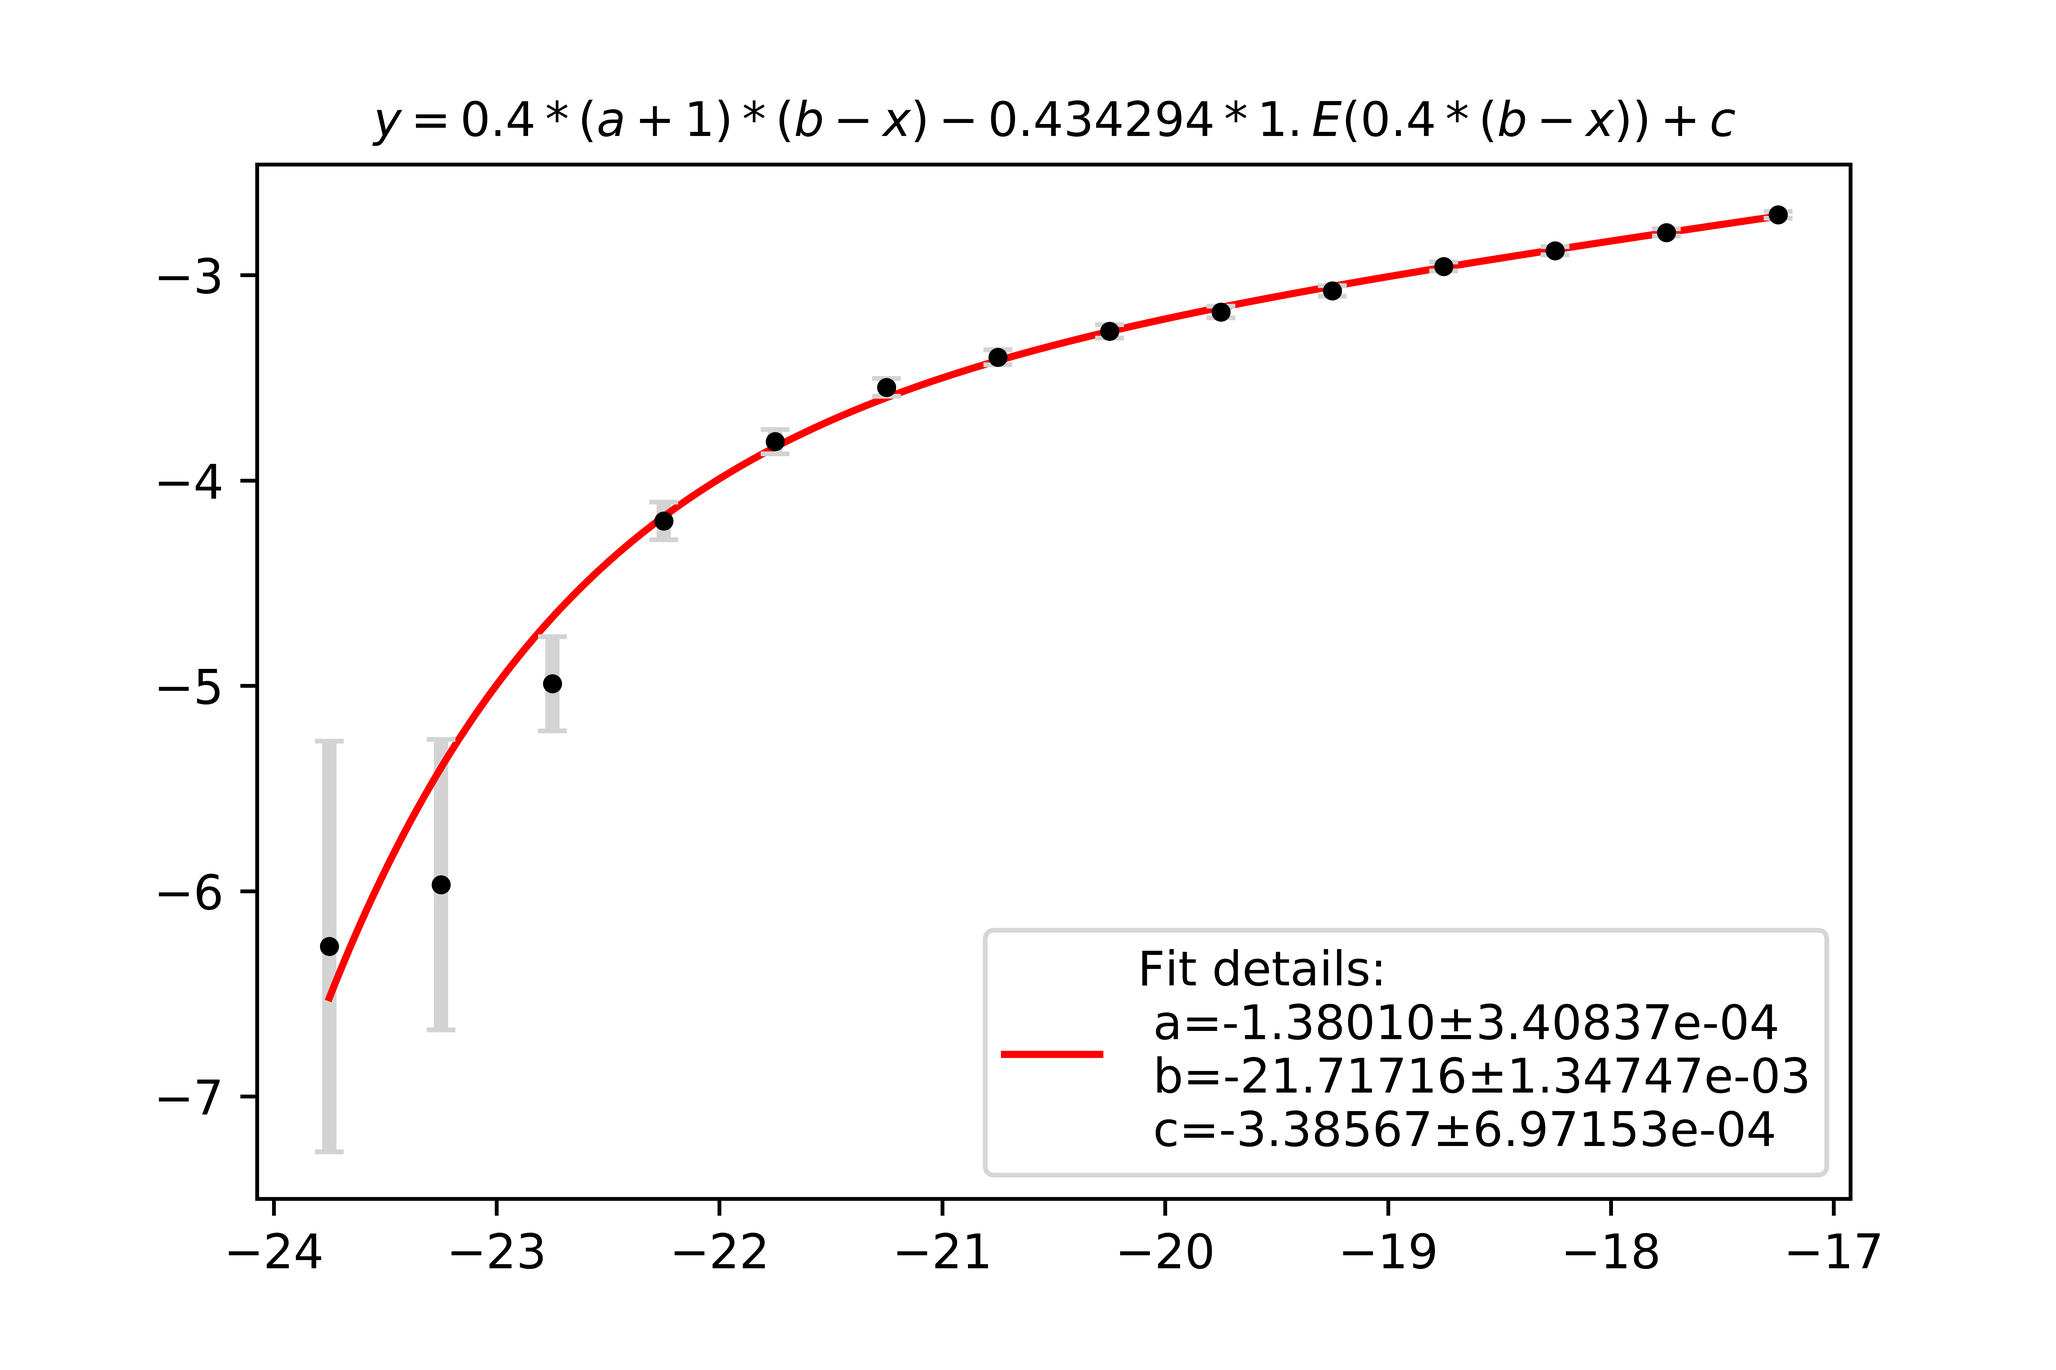
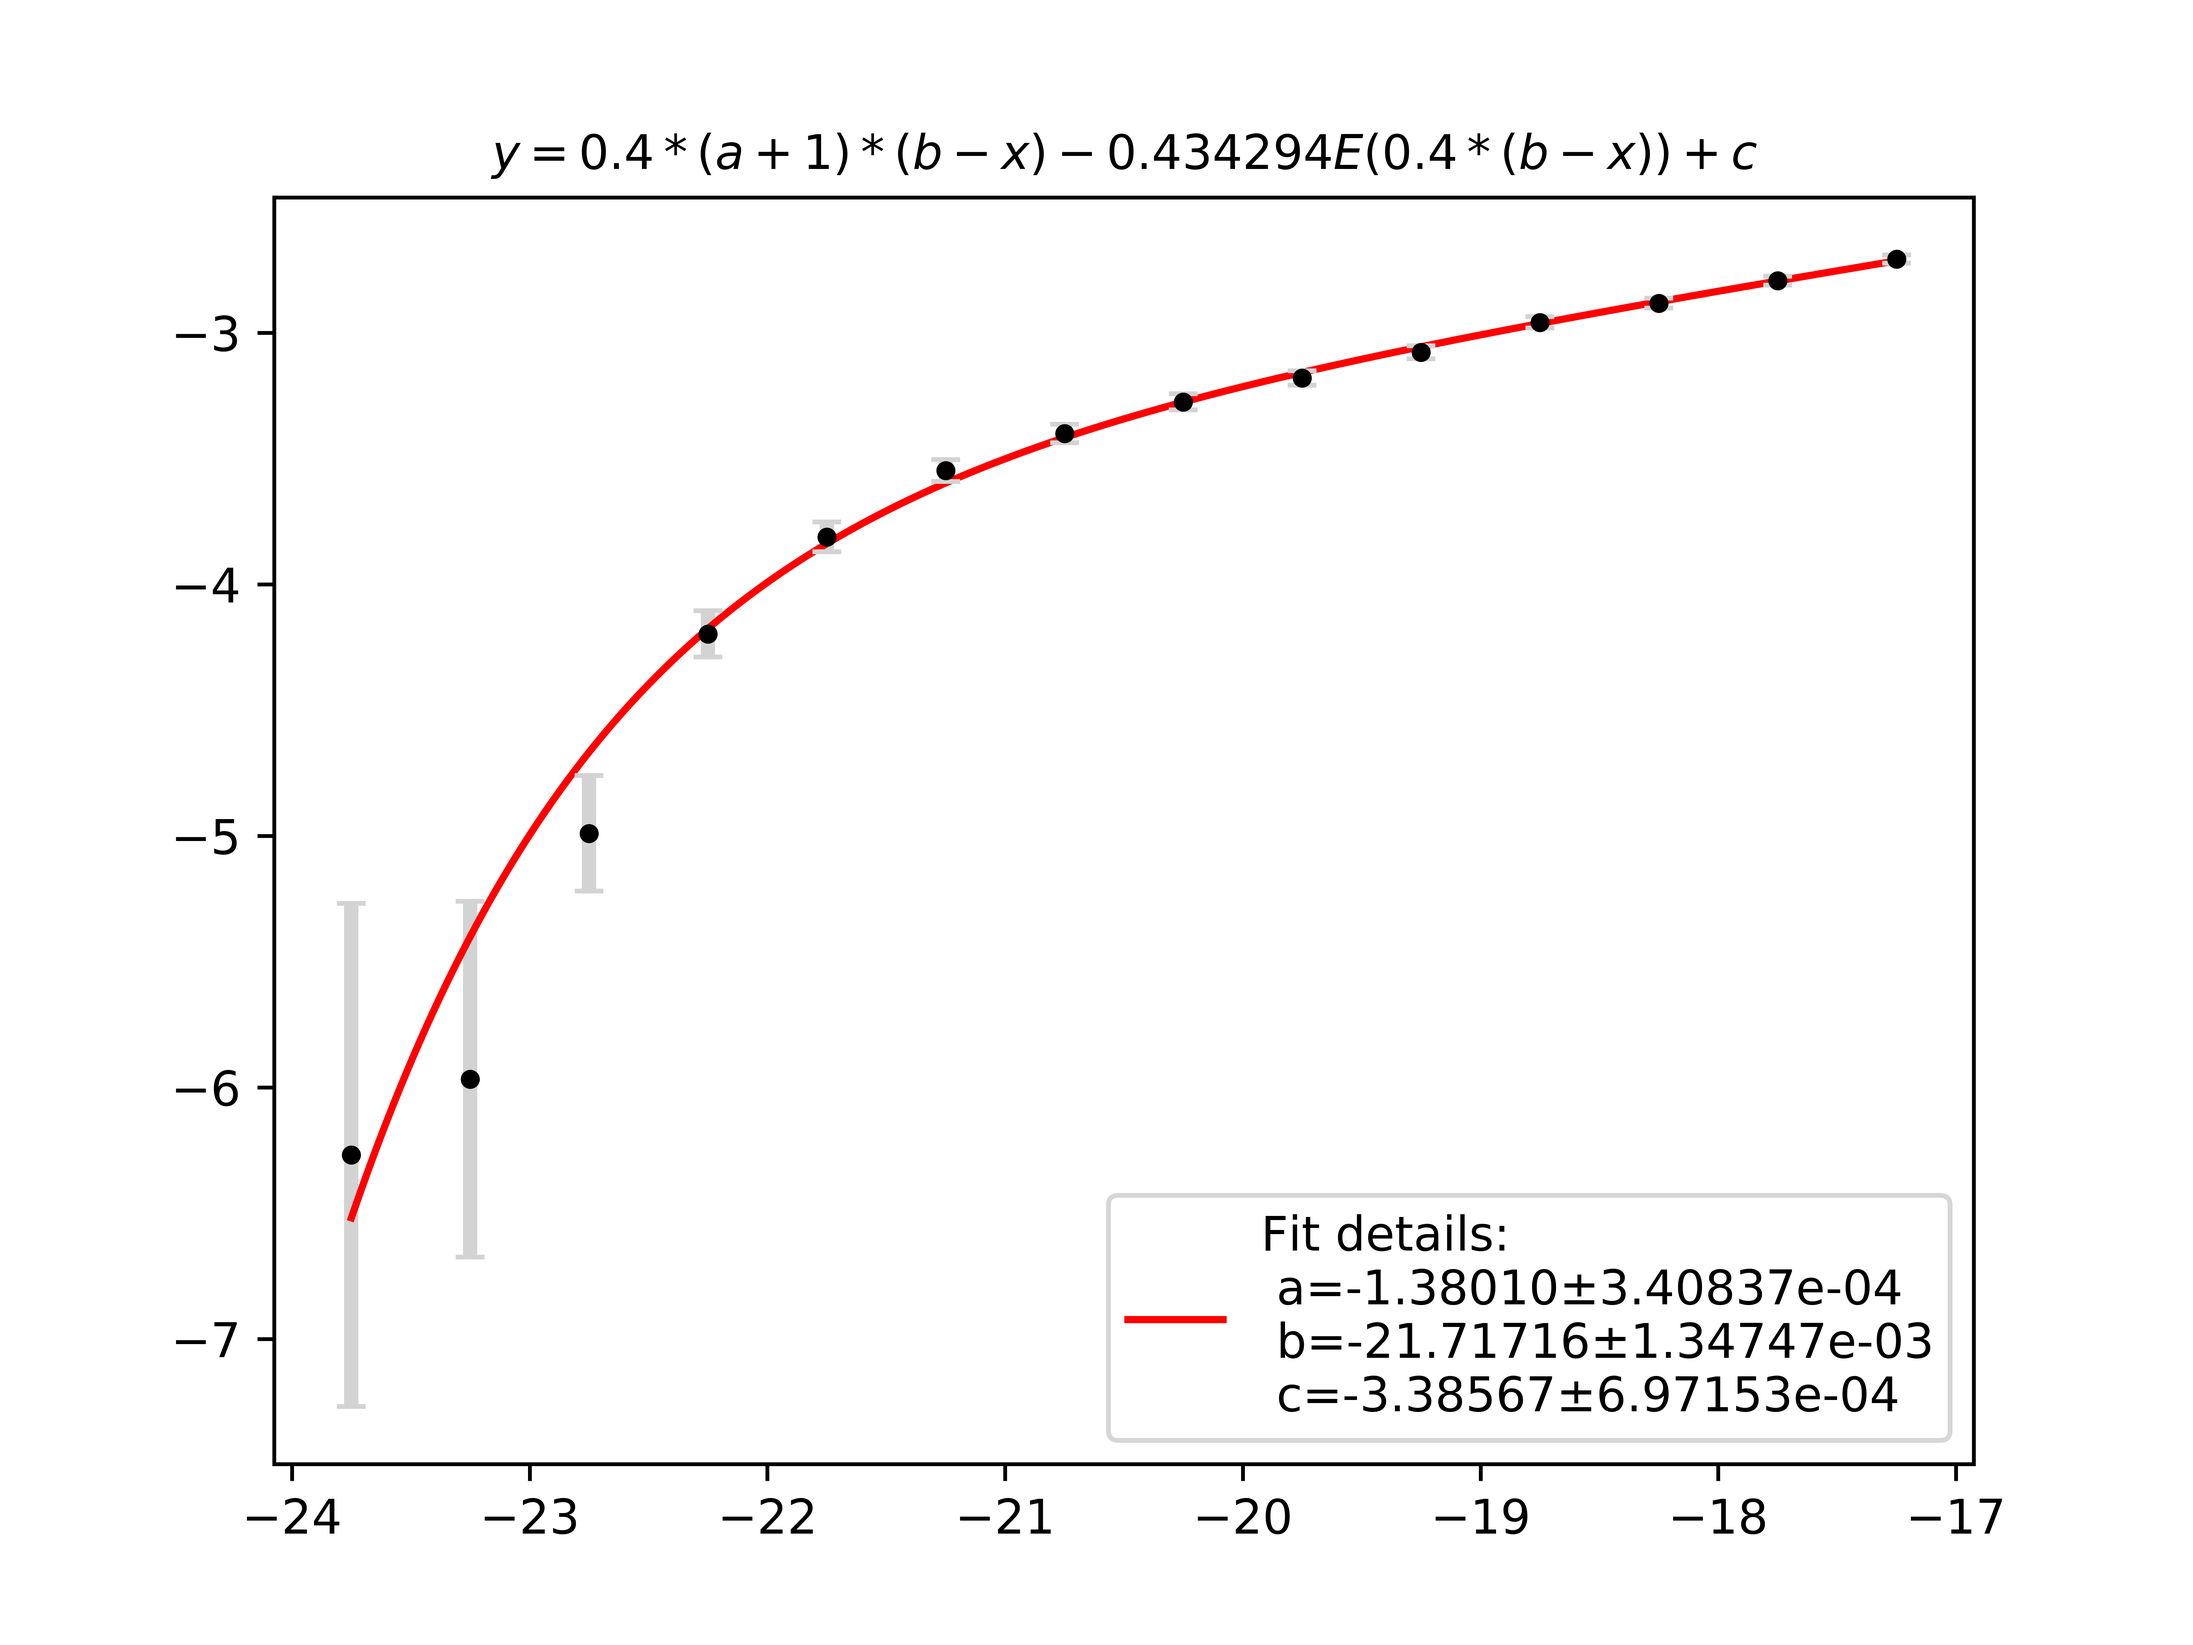
title fixed

diff --git a/Fit.py b/Fit.py
@@ -39,7 +39,7 @@ plt.errorbar(xdata, ydata, yerr=yerr,fmt='.k', color='black',
              ecolor='lightgray', elinewidth=3, capsize=3)
 #plt.plot(xpints, F(xpints,*(popt-pcov[0])), 'b-', 
      #    label='Fit details:\n a=%5.5f$\pm$%.5e\n b=%5.5f$\pm$%.5e\n c=%5.5f$\pm$%.5e' %(popt[0],pcov[0][0],popt[1],pcov[0][1],popt[2],pcov[0][2]))
-plt.title(r'$y =0.4 * (a+1) *(b-x) - 0.434294 * 1.E(0.4 * (b-x) ) + c$', fontdict=font)
+plt.title(r'$y =0.4 * (a+1) *(b-x) - 0.434294E(0.4 * (b-x) ) + c$', fontdict=font)
 plt.legend(loc='best')
 plt.savefig('Fit.pdf', format='pdf', dpi=1000)
 plt.savefig('Fit.png', format='png', dpi=1000)
